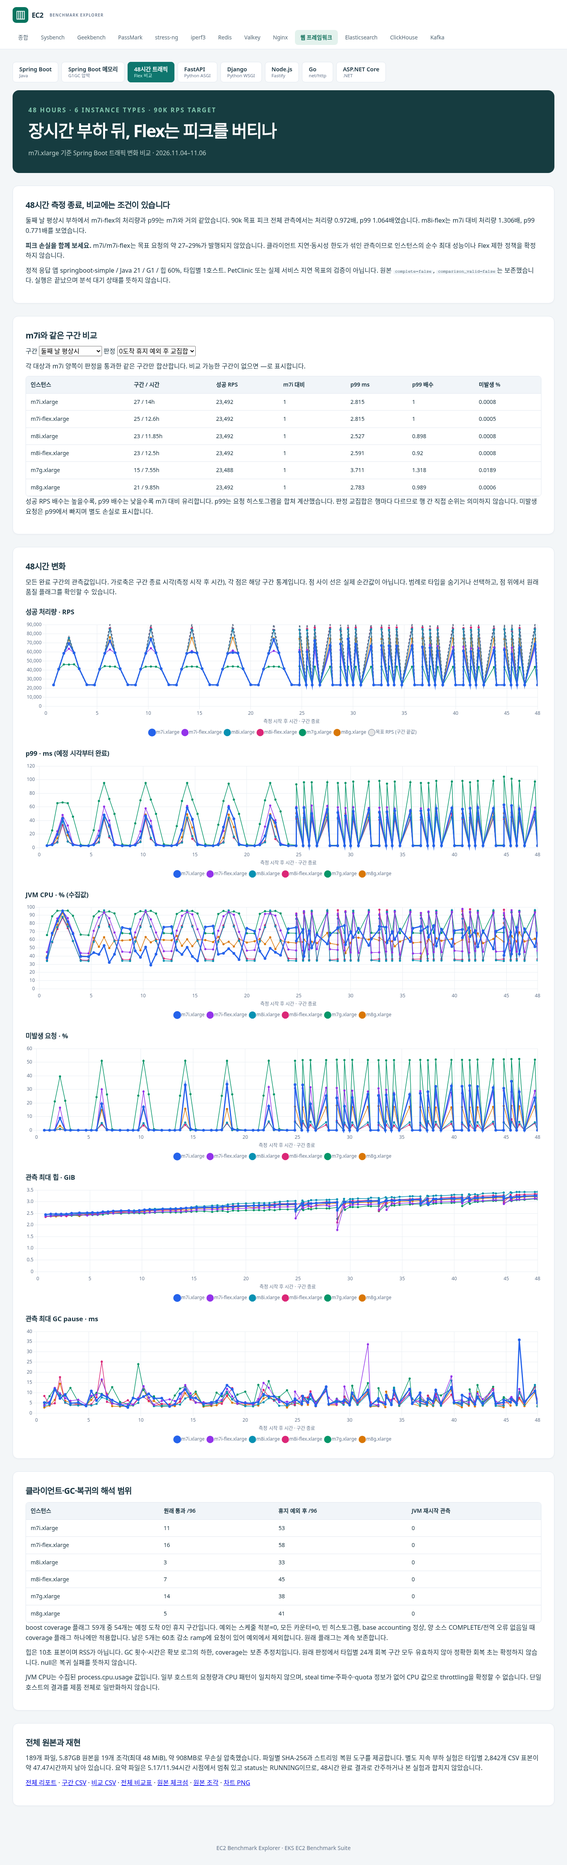
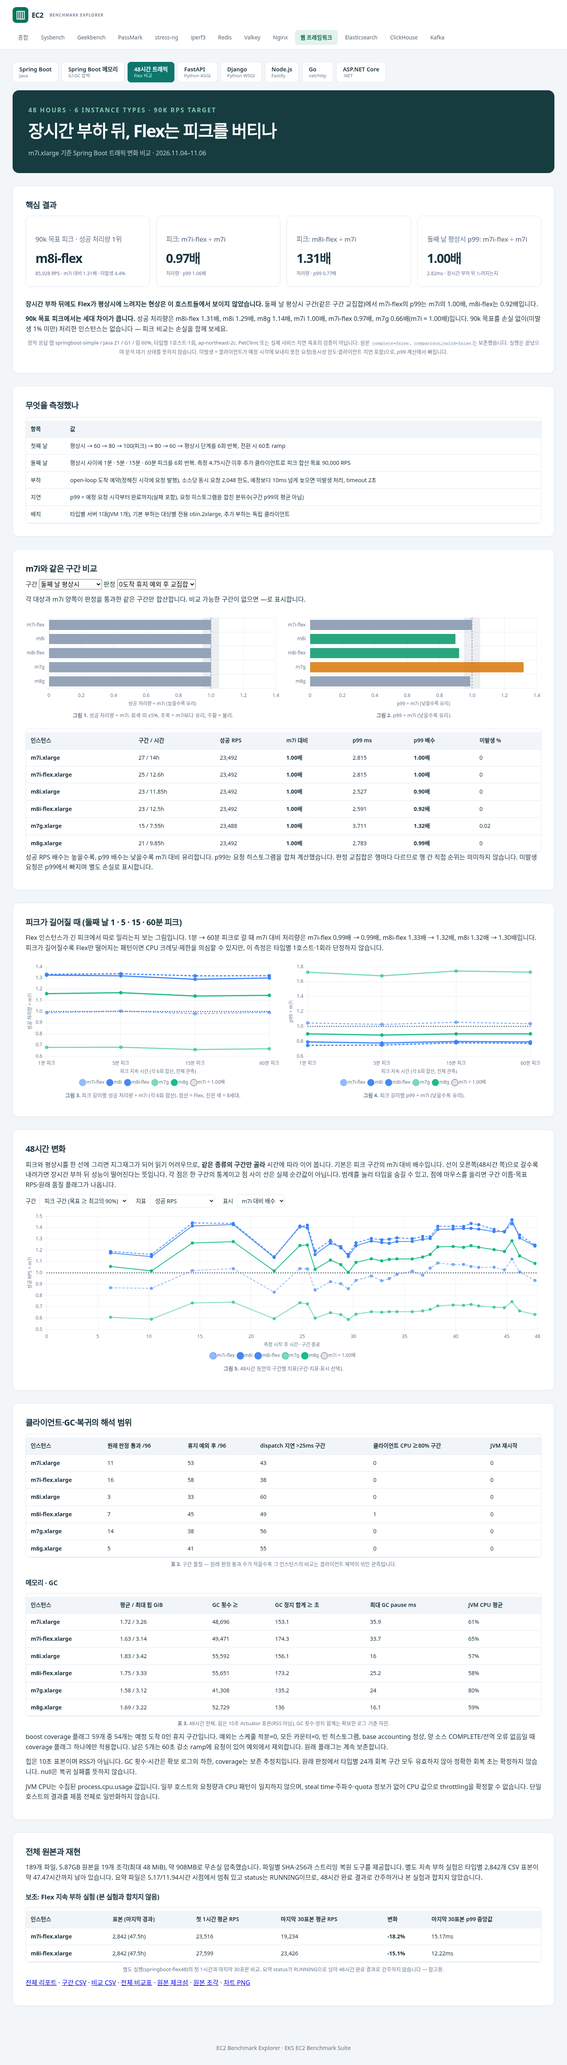
48시간 트래픽 탭을 리포트형으로 다시 렌더링
- 핵심 결과: 요약 카드(피크 처리량 1위, m7i-flex/m8i-flex ÷ m7i, 평상시 p99) + 데이터에서 조립한 결론 문장
- m7i와 같은 구간 비교: 기존 구간·판정 선택 유지, 성공 처리량·p99 m7i 대비 가로 막대(±5% 띠) 추가,
  표 배수를 'n.nn배'로 표기
- 피크 길이별(1/5/15/60분) m7i 대비 처리량·p99 — Flex가 긴 피크에서 따로 밀리는지
- 48시간 변화: 6개 지그재그 차트 대신 구간 종류(피크/평상시/전체)·지표·표시(m7i 배수/원값) 선택 1개
- 품질 표에 dispatch 지연·클라이언트 CPU ≥80% 구간 수, 메모리·GC 표, 보조 flex48 표
- 브라우저 테스트의 차트 수 6 → 5, 스크린샷 갱신. 수치는 JSON에서만 읽음(데이터·생성 스크립트 변경 없음)

diff --git a/site/js/tabs/springboot-traffic48.js b/site/js/tabs/springboot-traffic48.js
@@ -1,44 +1,165 @@
-import { fmt } from '../shared.js';
+// 48시간 트래픽 탭 — 수치는 scripts/traffic48_report.py가 만든 site/data/springboot-traffic48.json에서만 읽는다.
+// 이 파일은 그리기·문장 조립만 한다(하드코딩 수치 없음). 기준선 = m7i.xlarge.
+import { fmt, archColor, summaryCards } from '../shared.js';
+import { x, short } from '../report.js';
 
-const COLORS = ['#2563eb','#9333ea','#0891b2','#db2777','#059669','#d97706'];
 const REPO = 'https://github.com/Atom-oh/aws-ec2-benchmark/blob/92b5d5092ba5c94e3664a9f9f58e773ff0b36c82/reports/traffic48-final/';
-const cell = (v,d=3) => v == null ? '—' : fmt(v,d);
+const BASE = 'm7i.xlarge';
+const BAND = 0.05;
+const cell = (v, d = 3) => (v == null ? '—' : fmt(v, d));
+// 같은 아키텍처 안에서도 구분되도록 flex는 점선, 세대는 진하기
+const style = (n, arch) => ({
+  borderColor: archColor(arch, /8/.test(n) ? 0.95 : 0.55), backgroundColor: archColor(arch, /8/.test(n) ? 0.95 : 0.55),
+  borderDash: /flex/.test(n) ? [6, 4] : [],
+});
 
-export async function render(root,{envelope:e}) {
-  const handles=[];
-  const group=root.querySelector('[data-select="group"]');
-  const mode=root.querySelector('[data-select="mode"]');
+export async function render(root, { rows, envelope: e }) {
+  const handles = [];
+  const slot = (k) => root.querySelector(`[data-slot="${k}"]`);
+  const meta = Object.fromEntries(rows.map((r) => [r.name, r]));
+  const names = Object.keys(e.instances);
+  const arch = (n) => meta[n]?.arch || (/g\./.test(n) ? 'graviton' : 'intel');
+  const C = e.comparisons;
+  const cmp = (g, m, n) => (C[g]?.[m] || []).find((r) => r.instance === n);
+
+  // ---------- 핵심 결과 ----------
+  const pk = (n) => cmp('peak90', 'observed', n);
+  const lowQ = (n) => cmp('day2_low', 'idle_qualified', n);
+  const best = names.filter((n) => pk(n)?.target).sort((a, b) => pk(b).target.success_rps - pk(a).target.success_rps)[0];
+  const lossless = names.filter((n) => (pk(n)?.target?.drop_pct ?? 100) < 1);
+  handles.push(summaryCards(slot('cards'), [
+    best && { label: '90k 목표 피크 · 성공 처리량 1위', value: short(best), detail: `${fmt(pk(best).target.success_rps)} RPS · m7i 대비 ${x(pk(best).rps_ratio)} · 미발생 ${fmt(pk(best).target.drop_pct, 1)}%` },
+    pk('m7i-flex.xlarge') && { label: '피크: m7i-flex ÷ m7i', value: x(pk('m7i-flex.xlarge').rps_ratio), detail: `처리량 · p99 ${x(pk('m7i-flex.xlarge').p99_ratio)}` },
+    pk('m8i-flex.xlarge') && { label: '피크: m8i-flex ÷ m7i', value: x(pk('m8i-flex.xlarge').rps_ratio), detail: `처리량 · p99 ${x(pk('m8i-flex.xlarge').p99_ratio)}` },
+    lowQ('m7i-flex.xlarge')?.target && { label: '둘째 날 평상시 p99: m7i-flex ÷ m7i', value: x(lowQ('m7i-flex.xlarge').p99_ratio), detail: `${fmt(lowQ('m7i-flex.xlarge').target.p99_ms, 2)}ms · 장시간 부하 뒤 느려지는지` },
+  ].filter(Boolean)));
+  const flexLow = ['m7i-flex.xlarge', 'm8i-flex.xlarge'].map((n) => lowQ(n)?.p99_ratio).filter((v) => v != null);
+  const flexOk = flexLow.length && flexLow.every((v) => v <= 1 + BAND);
+  slot('lead').innerHTML = `<p><strong>${flexOk ? '장시간 부하 뒤에도 Flex가 평상시에 느려지는 현상은 이 호스트들에서 보이지 않았습니다.' : '장시간 부하 뒤 평상시 구간에서 Flex의 p99가 m7i보다 5% 넘게 높았습니다.'}</strong> 둘째 날 평상시 구간(같은 구간 교집합)에서 m7i-flex의 p99는 m7i의 ${x(lowQ('m7i-flex.xlarge')?.p99_ratio)}, m8i-flex는 ${x(lowQ('m8i-flex.xlarge')?.p99_ratio)}입니다.</p>`
+    + `<p><strong>90k 목표 피크에서는 세대 차이가 큽니다.</strong> 성공 처리량은 ${names.filter((n) => pk(n)).sort((a, b) => pk(b).rps_ratio - pk(a).rps_ratio).map((n) => `${short(n)} ${x(pk(n).rps_ratio)}`).join(', ')}(m7i = 1.00배)입니다. `
+    + `${lossless.length ? `미발생 1% 미만으로 처리한 인스턴스는 ${lossless.map(short).join(', ')}입니다.` : '90k 목표를 손실 없이(미발생 1% 미만) 처리한 인스턴스는 없습니다 — 피크 비교는 손실을 함께 보세요.'}</p>`;
+
+  // ---------- m7i와 같은 구간 비교 (선택) ----------
+  const group = root.querySelector('[data-select="group"]');
+  const mode = root.querySelector('[data-select="mode"]');
+  let barHandles = [];
+  const bars = (host, items, { title, lowerBetter }) => {
+    host.innerHTML = `<div class="chart-box" style="height:${Math.max(200, items.length * 34 + 70)}px"><canvas></canvas></div>`;
+    const good = (v) => (lowerBetter ? v <= 1 - BAND : v >= 1 + BAND), bad = (v) => (lowerBetter ? v >= 1 + BAND : v <= 1 - BAND);
+    const color = (v) => (v == null ? '#cbd5e1' : good(v) ? 'rgba(5,150,105,0.85)' : bad(v) ? 'rgba(217,119,6,0.85)' : '#94a3b8');
+    const band = { id: 'band', beforeDatasetsDraw(ch) {
+      const { ctx, chartArea: a, scales: { x: sx } } = ch; ctx.save(); ctx.fillStyle = 'rgba(148,163,184,0.18)';
+      ctx.fillRect(sx.getPixelForValue(1 - BAND), a.top, sx.getPixelForValue(1 + BAND) - sx.getPixelForValue(1 - BAND), a.bottom - a.top);
+      ctx.strokeStyle = '#475569'; ctx.setLineDash([4, 4]); ctx.beginPath(); ctx.moveTo(sx.getPixelForValue(1), a.top); ctx.lineTo(sx.getPixelForValue(1), a.bottom); ctx.stroke(); ctx.restore(); } };
+    const ch = new Chart(host.querySelector('canvas'), {
+      type: 'bar', data: { labels: items.map((i) => i.label), datasets: [{ data: items.map((i) => i.value), backgroundColor: items.map((i) => color(i.value)), borderRadius: 2 }] },
+      options: { indexAxis: 'y', responsive: true, maintainAspectRatio: false, animation: false,
+        scales: { x: { min: 0, suggestedMax: 1.4, title: { display: true, text: title } }, y: { ticks: { autoSkip: false } } },
+        plugins: { legend: { display: false }, tooltip: { callbacks: { label: (c) => `${x(c.parsed.x)} · ${items[c.dataIndex].detail}` } } } },
+      plugins: [band],
+    });
+    return { destroy() { ch.destroy(); } };
+  };
   function comparison() {
-    const rows=e.comparisons[group.value][mode.value];
-    root.querySelector('[data-slot="comparison-note"]').textContent=mode.value==='observed'
+    const list = C[group.value][mode.value];
+    slot('comparison-note').textContent = mode.value === 'observed'
       ? '품질 플래그를 포함한 전체 관측입니다. 서버 성능의 확정 순위가 아닙니다.'
       : '각 대상과 m7i 양쪽이 판정을 통과한 같은 구간만 합산합니다. 비교 가능한 구간이 없으면 —로 표시합니다.';
-    root.querySelector('[data-slot="comparison"]').innerHTML=`<div class="table-scroll" tabindex="0"><table><thead><tr><th>인스턴스</th><th>구간 / 시간</th><th>성공 RPS</th><th>m7i 대비</th><th>p99 ms</th><th>p99 배수</th><th>미발생 %</th></tr></thead><tbody>${rows.map(r=>{
-      const a=r.target;
-      return `<tr><td>${r.instance}</td><td>${a ? `${a.phases} / ${cell(a.hours,2)}h` : '0 / 0h'}</td><td>${cell(a?.success_rps,0)}</td><td>${cell(r.rps_ratio)}</td><td>${cell(a?.p99_ms)}</td><td>${cell(r.p99_ratio)}</td><td>${cell(a?.drop_pct,4)}</td></tr>`;
+    slot('comparison').innerHTML = `<div class="table-scroll" tabindex="0"><table class="report-table"><thead><tr><th>인스턴스</th><th>구간 / 시간</th><th>성공 RPS</th><th>m7i 대비</th><th>p99 ms</th><th>p99 배수</th><th>미발생 %</th></tr></thead><tbody>${list.map((r) => {
+      const a = r.target;
+      return `<tr><td><strong>${r.instance}</strong></td><td>${a ? `${a.phases} / ${cell(a.hours, 2)}h` : '0 / 0h'}</td><td>${cell(a?.success_rps, 0)}</td><td><strong>${r.rps_ratio == null ? '—' : x(r.rps_ratio)}</strong></td><td>${cell(a?.p99_ms)}</td><td><strong>${r.p99_ratio == null ? '—' : x(r.p99_ratio)}</strong></td><td>${cell(a?.drop_pct, 2)}</td></tr>`;
     }).join('')}</tbody></table></div>`;
+    barHandles.forEach((h) => h.destroy());
+    const it = (k, det) => list.filter((r) => r.instance !== BASE).map((r) => ({ label: short(r.instance), value: r[k], detail: r.target ? det(r.target) : '비교 구간 없음' }));
+    barHandles = [
+      bars(slot('cmp-rps'), it('rps_ratio', (a) => `${fmt(a.success_rps)} RPS · 미발생 ${fmt(a.drop_pct, 2)}%`), { title: '성공 처리량 ÷ m7i (높을수록 유리)' }),
+      bars(slot('cmp-p99'), it('p99_ratio', (a) => `p99 ${fmt(a.p99_ms, 2)}ms`), { title: 'p99 ÷ m7i (낮을수록 유리)', lowerBetter: true }),
+    ];
   }
-  group.addEventListener('change',comparison);mode.addEventListener('change',comparison);comparison();
-  handles.push({destroy(){group.removeEventListener('change',comparison);mode.removeEventListener('change',comparison);}});
-  const metrics=[
-    ['성공 처리량 · RPS',r=>r.success_rps],
-    ['p99 · ms (예정 시각부터 완료)',r=>r.p99_ms],
-    ['JVM CPU · % (수집값)',r=>r.memory_gc.jvm_cpu_mean_pct],
-    ['미발생 요청 · %',r=>100*r.dropped/r.offered],
-    ['관측 최대 힙 · GiB',r=>r.memory_gc.heap_used_max_bytes/2**30],
-    ['관측 최대 GC pause · ms',r=>r.memory_gc.gc_log_pause_max_ms],
-  ];
-  const chartHost=root.querySelector('[data-slot="charts"]');
-  for(const [title,value] of metrics){
-    const section=document.createElement('div');section.innerHTML=`<h3>${title}</h3><div style="height:300px;position:relative"><canvas aria-label="${title}"></canvas></div>`;chartHost.append(section);
-    const datasets=Object.keys(e.instances).map((n,i)=>({label:n,borderColor:COLORS[i],backgroundColor:COLORS[i],borderWidth:n==='m7i.xlarge'?3:1.5,pointRadius:2,tension:0,
-      data:e.phases.map(p=>({x:p.hour_end,y:value(p.instances[n]),flags:p.instances[n].validation_errors,phase:p.name})),spanGaps:false}));
-    if(title.startsWith('성공'))datasets.push({label:'목표 RPS (구간 끝값)',borderColor:'#64748b',borderDash:[5,4],pointRadius:0,data:e.phases.map(p=>({x:p.hour_end,y:p.rate_rps,phase:p.name,flags:[]}))});
-    handles.push(new Chart(section.querySelector('canvas'),{type:'line',data:{datasets},options:{responsive:true,maintainAspectRatio:false,animation:false,
-      scales:{x:{type:'linear',min:0,max:48,title:{display:true,text:'측정 시작 후 시간 · 구간 종료'}},y:{beginAtZero:true}},
-      plugins:{legend:{position:'bottom'},tooltip:{callbacks:{afterLabel:ctx=>[ctx.raw.phase,...(ctx.raw.flags.length?ctx.raw.flags:['원래 구간 판정 통과'])]}}}}}));
-  }
-  root.querySelector('[data-slot="quality"]').innerHTML=`<div class="table-scroll" tabindex="0"><table><thead><tr><th>인스턴스</th><th>원래 통과 /96</th><th>휴지 예외 후 /96</th><th>JVM 재시작 관측</th></tr></thead><tbody>${Object.entries(e.quality).map(([n,q])=>`<tr><td>${n}</td><td>${q.original_valid}</td><td>${q.idle_qualified}</td><td>${q.uptime_resets}</td></tr>`).join('')}</tbody></table></div>`;
-  root.querySelector('[data-slot="downloads"]').innerHTML=[['README.md','전체 리포트'],['phases.csv','구간 CSV'],['comparisons.csv','비교 CSV'],['tables.md','전체 비교표'],['raw/manifest.json','원본 체크섬'],['raw','원본 조각'],['timeseries.png','차트 PNG']].map(([p,n])=>`<a href="${REPO+p}">${n}</a>`).join(' · ');
-  return {destroy(){handles.forEach(h=>h.destroy());}};
+  group.addEventListener('change', comparison); mode.addEventListener('change', comparison); comparison();
+  handles.push({ destroy() { group.removeEventListener('change', comparison); mode.removeEventListener('change', comparison); barHandles.forEach((h) => h.destroy()); } });
+
+  // ---------- 피크 길이별 (둘째 날 1/5/15/60분 피크) ----------
+  const PEAKS = [['peak_60s', '1분 피크'], ['peak_300s', '5분 피크'], ['peak_900s', '15분 피크'], ['peak_3600s', '60분 피크']].filter(([g]) => C[g]);
+  const others = names.filter((n) => n !== BASE);
+  const peakChart = (host, key, title, lowerBetter) => {
+    host.innerHTML = '<div class="chart-box" style="height:320px"><canvas></canvas></div>';
+    const ch = new Chart(host.querySelector('canvas'), {
+      type: 'line',
+      data: { labels: PEAKS.map(([, l]) => l), datasets: others.map((n) => ({ label: short(n), inst: n, data: PEAKS.map(([g]) => cmp(g, 'observed', n)?.[key] ?? null), ...style(n, arch(n)), pointRadius: 4, pointHoverRadius: 7, tension: 0 }))
+        .concat([{ label: 'm7i = 1.00배', data: PEAKS.map(() => 1), borderColor: '#475569', borderDash: [2, 4], pointRadius: 0 }]) },
+      options: { responsive: true, maintainAspectRatio: false, animation: false, interaction: { mode: 'index', intersect: false },
+        scales: { y: { title: { display: true, text: title } }, x: { title: { display: true, text: '피크 지속 시간 (각 6회 합산, 전체 관측)' } } },
+        plugins: { legend: { position: 'bottom' }, tooltip: {
+          itemSort: (a, b) => (lowerBetter ? a.parsed.y - b.parsed.y : b.parsed.y - a.parsed.y),
+          callbacks: { label: (c) => {
+            const r = c.dataset.inst ? cmp(PEAKS[c.dataIndex][0], 'observed', c.dataset.inst) : null;
+            return r?.target ? `${c.dataset.label}: ${x(c.parsed.y)} · ${fmt(r.target.success_rps)} RPS · p99 ${fmt(r.target.p99_ms, 1)}ms · 미발생 ${fmt(r.target.drop_pct, 1)}%` : c.dataset.label;
+          } } } } },
+    });
+    handles.push({ destroy() { ch.destroy(); } });
+  };
+  peakChart(slot('peak-rps'), 'rps_ratio', '성공 처리량 ÷ m7i', false);
+  peakChart(slot('peak-p99'), 'p99_ratio', 'p99 ÷ m7i', true);
+  const trend = (n) => { const v = PEAKS.map(([g]) => cmp(g, 'observed', n)?.rps_ratio).filter((q) => q != null); return v.length > 1 ? `${short(n)} ${x(v[0])} → ${x(v[v.length - 1])}` : ''; };
+  slot('peak-lead').innerHTML = `<p>Flex 인스턴스가 긴 피크에서 따로 밀리는지 보는 그림입니다. 1분 → 60분 피크로 갈 때 m7i 대비 처리량은 ${['m7i-flex.xlarge', 'm8i-flex.xlarge', 'm8i.xlarge'].map(trend).filter(Boolean).join(', ')}입니다. 피크가 길어질수록 Flex만 떨어지는 패턴이면 CPU 크레딧·제한을 의심할 수 있지만, 이 측정은 타입별 1호스트·1회라 단정하지 않습니다.</p>`;
+
+  // ---------- 48시간 변화 (구간 종류·지표·표시 선택) ----------
+  const PH = e.phases.filter((p) => p.finished);
+  const maxRate = Math.max(...PH.map((q) => q.rate_rps)), minRate = Math.min(...PH.map((q) => q.rate_rps));
+  const KIND = {
+    peak: { label: '피크 구간 (목표 ≥ 최고의 90%)', test: (p) => p.rate_rps >= 0.9 * maxRate },
+    low: { label: '평상시 구간 (가장 낮은 단계)', test: (p) => p.rate_rps <= 1.01 * minRate },
+    all: { label: '모든 구간', test: () => true },
+  };
+  const MET = {
+    rps: { label: '성공 RPS', get: (r) => r.success_rps, axis: '성공 RPS' },
+    p99: { label: 'p99 (ms)', get: (r) => r.p99_ms, axis: 'p99 ms (예정 시각부터 완료)' },
+    p95: { label: 'p95 (ms)', get: (r) => r.p95_ms, axis: 'p95 ms' },
+    drop: { label: '미발생 %', get: (r) => (r.offered ? (100 * r.dropped) / r.offered : null), axis: '미발생 요청 %' },
+    cpu: { label: 'JVM CPU %', get: (r) => r.memory_gc?.jvm_cpu_mean_pct ?? null, axis: 'JVM CPU % (수집값)' },
+    heap: { label: '최대 힙 (GiB)', get: (r) => (r.memory_gc?.heap_used_max_bytes != null ? r.memory_gc.heap_used_max_bytes / 2 ** 30 : null), axis: '관측 최대 힙 GiB' },
+    gc: { label: '최대 GC pause (ms)', get: (r) => r.memory_gc?.gc_log_pause_max_ms ?? null, axis: '관측 최대 GC pause ms' },
+  };
+  const tsHost = slot('charts');
+  tsHost.innerHTML = `<div class="ts-controls"><label>구간 <select data-ts="kind">${Object.entries(KIND).map(([k, v]) => `<option value="${k}">${v.label}</option>`).join('')}</select></label>`
+    + `<label>지표 <select data-ts="metric">${Object.entries(MET).map(([k, v]) => `<option value="${k}">${v.label}</option>`).join('')}</select></label>`
+    + '<label>표시 <select data-ts="view"><option value="ratio">m7i 대비 배수</option><option value="abs">원래 값</option></select></label></div>'
+    + '<div class="chart-box" style="height:380px"><canvas aria-label="48시간 변화"></canvas></div>';
+  const sel = (k) => tsHost.querySelector(`[data-ts="${k}"]`);
+  const tsData = () => {
+    const kind = KIND[sel('kind').value], m = MET[sel('metric').value], ratio = sel('view').value === 'ratio';
+    const phs = PH.filter(kind.test);
+    const ds = names.filter((n) => !(ratio && n === BASE)).map((n) => ({
+      label: short(n), ...style(n, arch(n)), pointRadius: 3, pointHoverRadius: 6, tension: 0, spanGaps: true, borderWidth: n === BASE ? 3 : 2,
+      data: phs.map((p) => { const v = m.get(p.instances[n]), b = m.get(p.instances[BASE]); return { x: p.hour_end, y: ratio ? (v != null && b ? v / b : null) : v, p, n }; }).filter((q) => q.y != null),
+    }));
+    if (ratio) ds.push({ label: 'm7i = 1.00배', data: [{ x: 0, y: 1 }, { x: 48, y: 1 }], borderColor: '#475569', borderDash: [2, 4], pointRadius: 0 });
+    return { ds, y: ratio ? `${m.label} ÷ m7i` : m.axis };
+  };
+  const first = tsData();
+  const ts = new Chart(tsHost.querySelector('canvas'), {
+    type: 'line', data: { datasets: first.ds },
+    options: { responsive: true, maintainAspectRatio: false, animation: false, interaction: { mode: 'nearest', intersect: false },
+      scales: { x: { type: 'linear', min: 0, max: 48, title: { display: true, text: '측정 시작 후 시간 · 구간 종료' } }, y: { title: { display: true, text: first.y } } },
+      plugins: { legend: { position: 'bottom' }, tooltip: { callbacks: {
+        title: (it) => (it[0]?.raw?.p ? `${it[0].raw.p.name} · ${fmt(it[0].raw.p.hour_end, 2)}h · 목표 ${fmt(it[0].raw.p.rate_rps)} RPS` : ''),
+        label: (c) => { const q = c.raw; if (!q.p) return c.dataset.label; const r = q.p.instances[q.n];
+          return `${c.dataset.label}: ${fmt(c.parsed.y, 3)} · ${fmt(r.success_rps)} RPS · p99 ${fmt(r.p99_ms, 2)}ms · 미발생 ${fmt(100 * (r.dropped_fraction || 0), 2)}%`; },
+        afterLabel: (c) => (c.raw.p ? (c.raw.p.instances[c.raw.n].validation_errors || []).slice(0, 2).map((f) => `  · ${f}`) : []),
+      } } } },
+  });
+  const onTs = () => { const d = tsData(); ts.data.datasets = d.ds; ts.options.scales.y.title.text = d.y; ts.update(); };
+  ['kind', 'metric', 'view'].forEach((k) => sel(k).addEventListener('change', onTs));
+  handles.push({ destroy() { ['kind', 'metric', 'view'].forEach((k) => sel(k).removeEventListener('change', onTs)); ts.destroy(); } });
+
+  // ---------- 품질·메모리·보조 실험 표 ----------
+  const cpu80 = (n) => PH.filter((p) => (p.instances[n].client_cpu_pct ?? 0) >= 80).length;
+  slot('quality').innerHTML = `<div class="table-scroll" tabindex="0"><table class="report-table"><thead><tr><th>인스턴스</th><th>원래 판정 통과 /96</th><th>휴지 예외 후 /96</th><th>dispatch 지연 >25ms 구간</th><th>클라이언트 CPU ≥80% 구간</th><th>JVM 재시작</th></tr></thead><tbody>${Object.entries(e.quality).map(([n, q]) => `<tr><td><strong>${n}</strong></td><td>${q.original_valid}</td><td>${q.idle_qualified}</td><td>${q.dispatch_flag_phases ?? '—'}</td><td>${cpu80(n)}</td><td>${q.uptime_resets}</td></tr>`).join('')}</tbody></table></div>`;
+  slot('memory').innerHTML = `<div class="table-scroll" tabindex="0"><table class="report-table"><thead><tr><th>인스턴스</th><th>평균 / 최대 힙 GiB</th><th>GC 횟수 ≥</th><th>GC 정지 합계 ≥ 초</th><th>최대 GC pause ms</th><th>JVM CPU 평균</th></tr></thead><tbody>${names.map((n) => { const i = e.instances[n];
+    return `<tr><td><strong>${n}</strong></td><td>${cell(i.heap_mean_gib, 2)} / ${cell(i.heap_max_gib, 2)}</td><td>${fmt(i.gc_count_lower_bound)}</td><td>${cell(i.gc_pause_seconds_lower_bound, 1)}</td><td>${cell(i.gc_pause_max_ms, 1)}</td><td>${i.cpu_pct != null ? `${fmt(i.cpu_pct, 0)}%` : '—'}</td></tr>`; }).join('')}</tbody></table></div>`;
+  const S = e.supplemental_flex48 || {};
+  slot('flex48').innerHTML = Object.keys(S).length ? `<div class="table-scroll" tabindex="0"><table class="report-table"><thead><tr><th>인스턴스</th><th>표본 (마지막 경과)</th><th>첫 1시간 평균 RPS</th><th>마지막 30표본 평균 RPS</th><th>변화</th><th>마지막 30표본 p99 중앙값</th></tr></thead><tbody>${Object.entries(S).map(([n, s]) => `<tr><td><strong>${n}</strong></td><td>${fmt(s.samples)} (${fmt(s.last_elapsed_seconds / 3600, 1)}h)</td><td>${fmt(s.first_hour_probe_rps_mean)}</td><td>${fmt(s.last30_probe_rps_mean)}</td><td><strong>${s.change_pct > 0 ? '+' : ''}${fmt(s.change_pct, 1)}%</strong></td><td>${cell(s.last30_per_probe_p99_median_ms, 2)}ms</td></tr>`).join('')}</tbody></table></div>` : '';
+  slot('downloads').innerHTML = [['README.md', '전체 리포트'], ['phases.csv', '구간 CSV'], ['comparisons.csv', '비교 CSV'], ['tables.md', '전체 비교표'], ['raw/manifest.json', '원본 체크섬'], ['raw', '원본 조각'], ['timeseries.png', '차트 PNG']].map(([p, n]) => `<a href="${REPO + p}">${n}</a>`).join(' · ');
+  return { destroy() { handles.forEach((h) => h && h.destroy && h.destroy()); } };
 }

diff --git a/site/tabs/springboot-traffic48.html b/site/tabs/springboot-traffic48.html
@@ -4,26 +4,52 @@
   <p>m7i.xlarge 기준 Spring Boot 트래픽 변화 비교 · 2026.11.04–11.06</p></div>
 </header>
 <section class="section" id="traffic48-summary">
-  <h2>48시간 측정 종료, 비교에는 조건이 있습니다</h2>
-  <p>둘째 날 평상시 부하에서 m7i-flex의 처리량과 p99는 m7i와 거의 같았습니다. 90k 목표 피크 전체 관측에서는 처리량 0.972배, p99 1.064배였습니다. m8i-flex는 m7i 대비 처리량 1.306배, p99 0.771배를 보였습니다.</p>
-  <p><strong>피크 손실을 함께 보세요.</strong> m7i/m7i-flex는 목표 요청의 약 27–29%가 발행되지 않았습니다. 클라이언트 지연·동시성 한도가 섞인 관측이므로 인스턴스의 순수 최대 성능이나 Flex 제한 정책을 확정하지 않습니다.</p>
-  <p>정적 응답 앱 springboot-simple / Java 21 / G1 / 힙 60%, 타입별 1호스트. PetClinic 또는 실제 서비스 지연 목표의 검증이 아닙니다. 원본 <code>complete=false</code>, <code>comparison_valid=false</code>는 보존했습니다. 실행은 끝났으며 분석 대기 상태를 뜻하지 않습니다.</p>
+  <h2>핵심 결과</h2>
+  <div class="summary-cards" data-slot="cards"></div>
+  <div data-slot="lead"></div>
+  <p class="caption">정적 응답 앱 springboot-simple / Java 21 / G1 / 힙 60%, 타입별 1호스트·1회, ap-northeast-2c. PetClinic 또는 실제 서비스 지연 목표의 검증이 아닙니다. 원본 <code>complete=false</code>, <code>comparison_valid=false</code>는 보존했습니다. 실행은 끝났으며 분석 대기 상태를 뜻하지 않습니다. 미발생 = 클라이언트가 예정 시각에 보내지 못한 요청(동시성 한도·클라이언트 지연 포함)으로, p99 계산에서 빠집니다.</p>
 </section>
+<section class="section" id="traffic48-method">
+  <h2>무엇을 측정했나</h2>
+  <table class="report-table">
+    <tr><th>항목</th><th>값</th></tr>
+    <tr><td>첫째 날</td><td>평상시 → 60 → 80 → 100(피크) → 80 → 60 → 평상시 단계를 6회 반복, 전환 시 60초 ramp</td></tr>
+    <tr><td>둘째 날</td><td>평상시 사이에 1분 · 5분 · 15분 · 60분 피크를 6회 반복. 측정 4.75시간 이후 추가 클라이언트로 피크 합산 목표 90,000 RPS</td></tr>
+    <tr><td>부하</td><td>open-loop 도착 예약(정해진 시각에 요청 발행), 소스당 동시 요청 2,048 한도, 예정보다 10ms 넘게 늦으면 미발생 처리, timeout 2초</td></tr>
+    <tr><td>지연</td><td>p99 = 예정 요청 시각부터 완료까지(실패 포함), 요청 히스토그램을 합친 분위수(구간 p99의 평균 아님)</td></tr>
+    <tr><td>배치</td><td>타입별 서버 1대(JVM 1개), 기본 부하는 대상별 전용 c6in.2xlarge, 추가 부하는 독립 클라이언트</td></tr>
+  </table>
+</section>
+
 <section class="section" id="traffic48-comparison">
   <h2>m7i와 같은 구간 비교</h2>
   <p><label>구간 <select data-select="group"><option value="peak90">90k 목표 피크 · 전체</option><option value="day2_low">둘째 날 평상시</option><option value="all">48시간 전체</option><option value="day1">첫째 날</option><option value="peak_60s">둘째 날 1분 피크</option><option value="peak_300s">둘째 날 5분 피크</option><option value="peak_900s">둘째 날 15분 피크</option><option value="peak_3600s">둘째 날 60분 피크</option></select></label>
   <label>판정 <select data-select="mode"><option value="observed">전체 관측 (품질 제약 포함)</option><option value="strict">원래 판정 통과 교집합</option><option value="idle_qualified">0도착 휴지 예외 후 교집합</option></select></label></p>
-  <p data-slot="comparison-note" role="status"></p><div data-slot="comparison"></div>
+  <p data-slot="comparison-note" role="status"></p>
+  <div class="chart-row"><div><div data-slot="cmp-rps"></div><p class="caption"><strong>그림 1.</strong> 성공 처리량 ÷ m7i. 회색 띠 ±5%, 초록 = m7i보다 유리, 주황 = 불리.</p></div>
+  <div><div data-slot="cmp-p99"></div><p class="caption"><strong>그림 2.</strong> p99 ÷ m7i (낮을수록 유리).</p></div></div>
+  <div data-slot="comparison"></div>
   <p>성공 RPS 배수는 높을수록, p99 배수는 낮을수록 m7i 대비 유리합니다. p99는 요청 히스토그램을 합쳐 계산했습니다. 판정 교집합은 행마다 다르므로 행 간 직접 순위는 의미하지 않습니다. 미발생 요청은 p99에서 빠지며 별도 손실로 표시합니다.</p>
+</section>
+<section class="section" id="traffic48-peaks">
+  <h2>피크가 길어질 때 (둘째 날 1 · 5 · 15 · 60분 피크)</h2>
+  <div data-slot="peak-lead"></div>
+  <div class="chart-row"><div><div data-slot="peak-rps"></div><p class="caption"><strong>그림 3.</strong> 피크 길이별 성공 처리량 ÷ m7i (각 6회 합산). 점선 = Flex, 진한 색 = 8세대.</p></div>
+  <div><div data-slot="peak-p99"></div><p class="caption"><strong>그림 4.</strong> 피크 길이별 p99 ÷ m7i (낮을수록 유리).</p></div></div>
 </section>
 <section class="section" id="traffic48-time">
   <h2>48시간 변화</h2>
-  <p>모든 완료 구간의 관측값입니다. 가로축은 구간 종료 시각(측정 시작 후 시간), 각 점은 해당 구간 통계입니다. 점 사이 선은 실제 순간값이 아닙니다. 범례로 타입을 숨기거나 선택하고, 점 위에서 원래 품질 플래그를 확인할 수 있습니다.</p>
+  <p>피크와 평상시를 한 선에 그리면 지그재그가 되어 읽기 어려우므로, <strong>같은 종류의 구간만 골라</strong> 시간에 따라 이어 봅니다. 기본은 피크 구간의 m7i 대비 배수입니다. 선이 오른쪽(48시간 쪽)으로 갈수록 내려가면 장시간 부하 뒤 성능이 떨어진다는 뜻입니다. 각 점은 한 구간의 통계이고 점 사이 선은 실제 순간값이 아닙니다. 범례를 눌러 타입을 숨길 수 있고, 점에 마우스를 올리면 구간 이름·목표 RPS·원래 품질 플래그가 나옵니다.</p>
   <div data-slot="charts"></div>
+  <p class="caption"><strong>그림 5.</strong> 48시간 동안의 구간별 지표(구간·지표·표시 선택).</p>
 </section>
 <section class="section" id="traffic48-quality">
   <h2>클라이언트·GC·복귀의 해석 범위</h2>
   <div data-slot="quality"></div>
+  <p class="caption"><strong>표 2.</strong> 구간 품질 — 원래 판정 통과 수가 적을수록 그 인스턴스의 비교는 클라이언트 제약이 섞인 관측입니다.</p>
+  <h3>메모리 · GC</h3>
+  <div data-slot="memory"></div>
+  <p class="caption"><strong>표 3.</strong> 48시간 전체. 힙은 10초 Actuator 표본(RSS 아님), GC 횟수·정지 합계는 확보한 로그 기준 하한.</p>
   <p>boost coverage 플래그 59개 중 54개는 예정 도착 0인 휴지 구간입니다. 예외는 스케줄 적분=0, 모든 카운터=0, 빈 히스토그램, base accounting 정상, 양 소스 COMPLETE/전역 오류 없음일 때 coverage 플래그 하나에만 적용합니다. 남은 5개는 60초 감소 ramp에 요청이 있어 예외에서 제외합니다. 원래 플래그는 계속 보존합니다.</p>
   <p>힙은 10초 표본이며 RSS가 아닙니다. GC 횟수·시간은 확보 로그의 하한, coverage는 보존 추정치입니다. 원래 판정에서 타입별 24개 회복 구간 모두 유효하지 않아 정확한 회복 초는 확정하지 않습니다. null은 복귀 실패를 뜻하지 않습니다.</p>
   <p>JVM CPU는 수집된 process.cpu.usage 값입니다. 일부 호스트의 요청량과 CPU 패턴이 일치하지 않으며, steal time·주파수·quota 정보가 없어 CPU 값으로 throttling을 확정할 수 없습니다. 단일 호스트의 결과를 제품 전체로 일반화하지 않습니다.</p>
@@ -31,5 +57,8 @@
 <section class="section" id="traffic48-artifacts">
   <h2>전체 원본과 재현</h2>
   <p>189개 파일, 5.87GB 원본을 19개 조각(최대 48 MiB), 약 908MB로 무손실 압축했습니다. 파일별 SHA-256과 스트리밍 복원 도구를 제공합니다. 별도 지속 부하 실험은 타입별 2,842개 CSV 표본이 약 47.47시간까지 남아 있습니다. 요약 파일은 5.17/11.94시간 시점에서 멈춰 있고 status는 RUNNING이므로, 48시간 완료 결과로 간주하거나 본 실험과 합치지 않았습니다.</p>
+  <h3>보조: Flex 지속 부하 실험 (본 실험과 합치지 않음)</h3>
+  <div data-slot="flex48"></div>
+  <p class="caption">별도 실행(springboot-flex48)의 첫 1시간과 마지막 30표본 비교. 요약 status가 RUNNING으로 남아 48시간 완료 결과로 간주하지 않습니다 — 참고용.</p>
   <p data-slot="downloads"></p>
 </section>

diff --git a/site/css/dashboard.css b/site/css/dashboard.css
@@ -389,3 +389,5 @@ code { font-size: 0.85em; background: #f1f5f9; padding: 0 0.25rem; border-radius
 .subnav a.active span { color: #ccfbf1; }
 
 .chart-row { display: grid; grid-template-columns: repeat(auto-fit, minmax(320px, 1fr)); gap: 1rem; }
+.ts-controls { display: flex; flex-wrap: wrap; gap: 0.75rem 1.25rem; margin: 0.25rem 0 0.5rem; font-size: 0.9rem; }
+.ts-controls select { margin-left: 0.35rem; padding: 0.3rem 0.5rem; border: 1px solid var(--border); border-radius: 0.375rem; background: transparent; color: inherit; font: inherit; }

diff --git a/tests/traffic48-report/test_browser.py b/tests/traffic48-report/test_browser.py
@@ -18,7 +18,7 @@ def main():
    for width in [1440,390]:
     page.set_viewport_size({'width':width,'height':1000})
     page.goto(f'http://127.0.0.1:{server.server_port}/#web/springboot-traffic48')
-    page.wait_for_function('Object.keys(Chart.instances).length === 6')
+    page.wait_for_function('Object.keys(Chart.instances).length === 5')
     assert page.locator('[data-slot="comparison"] tbody tr').count()==6
     assert '65,780' in page.locator('[data-slot="comparison"]').inner_text()
     page.locator('[data-select="group"]').select_option('day2_low')
@@ -31,7 +31,7 @@ def main():
     page.evaluate("location.hash='#web/springboot-memory'")
     page.wait_for_selector('#results')
     page.evaluate("location.hash='#web/springboot-traffic48'")
-    page.wait_for_function('Object.keys(Chart.instances).length === 6')
+    page.wait_for_function('Object.keys(Chart.instances).length === 5')
    assert not errors,errors
    browser.close()
    print('PASS: desktop/mobile, comparison selectors, no overflow, route cleanup, no page errors')
